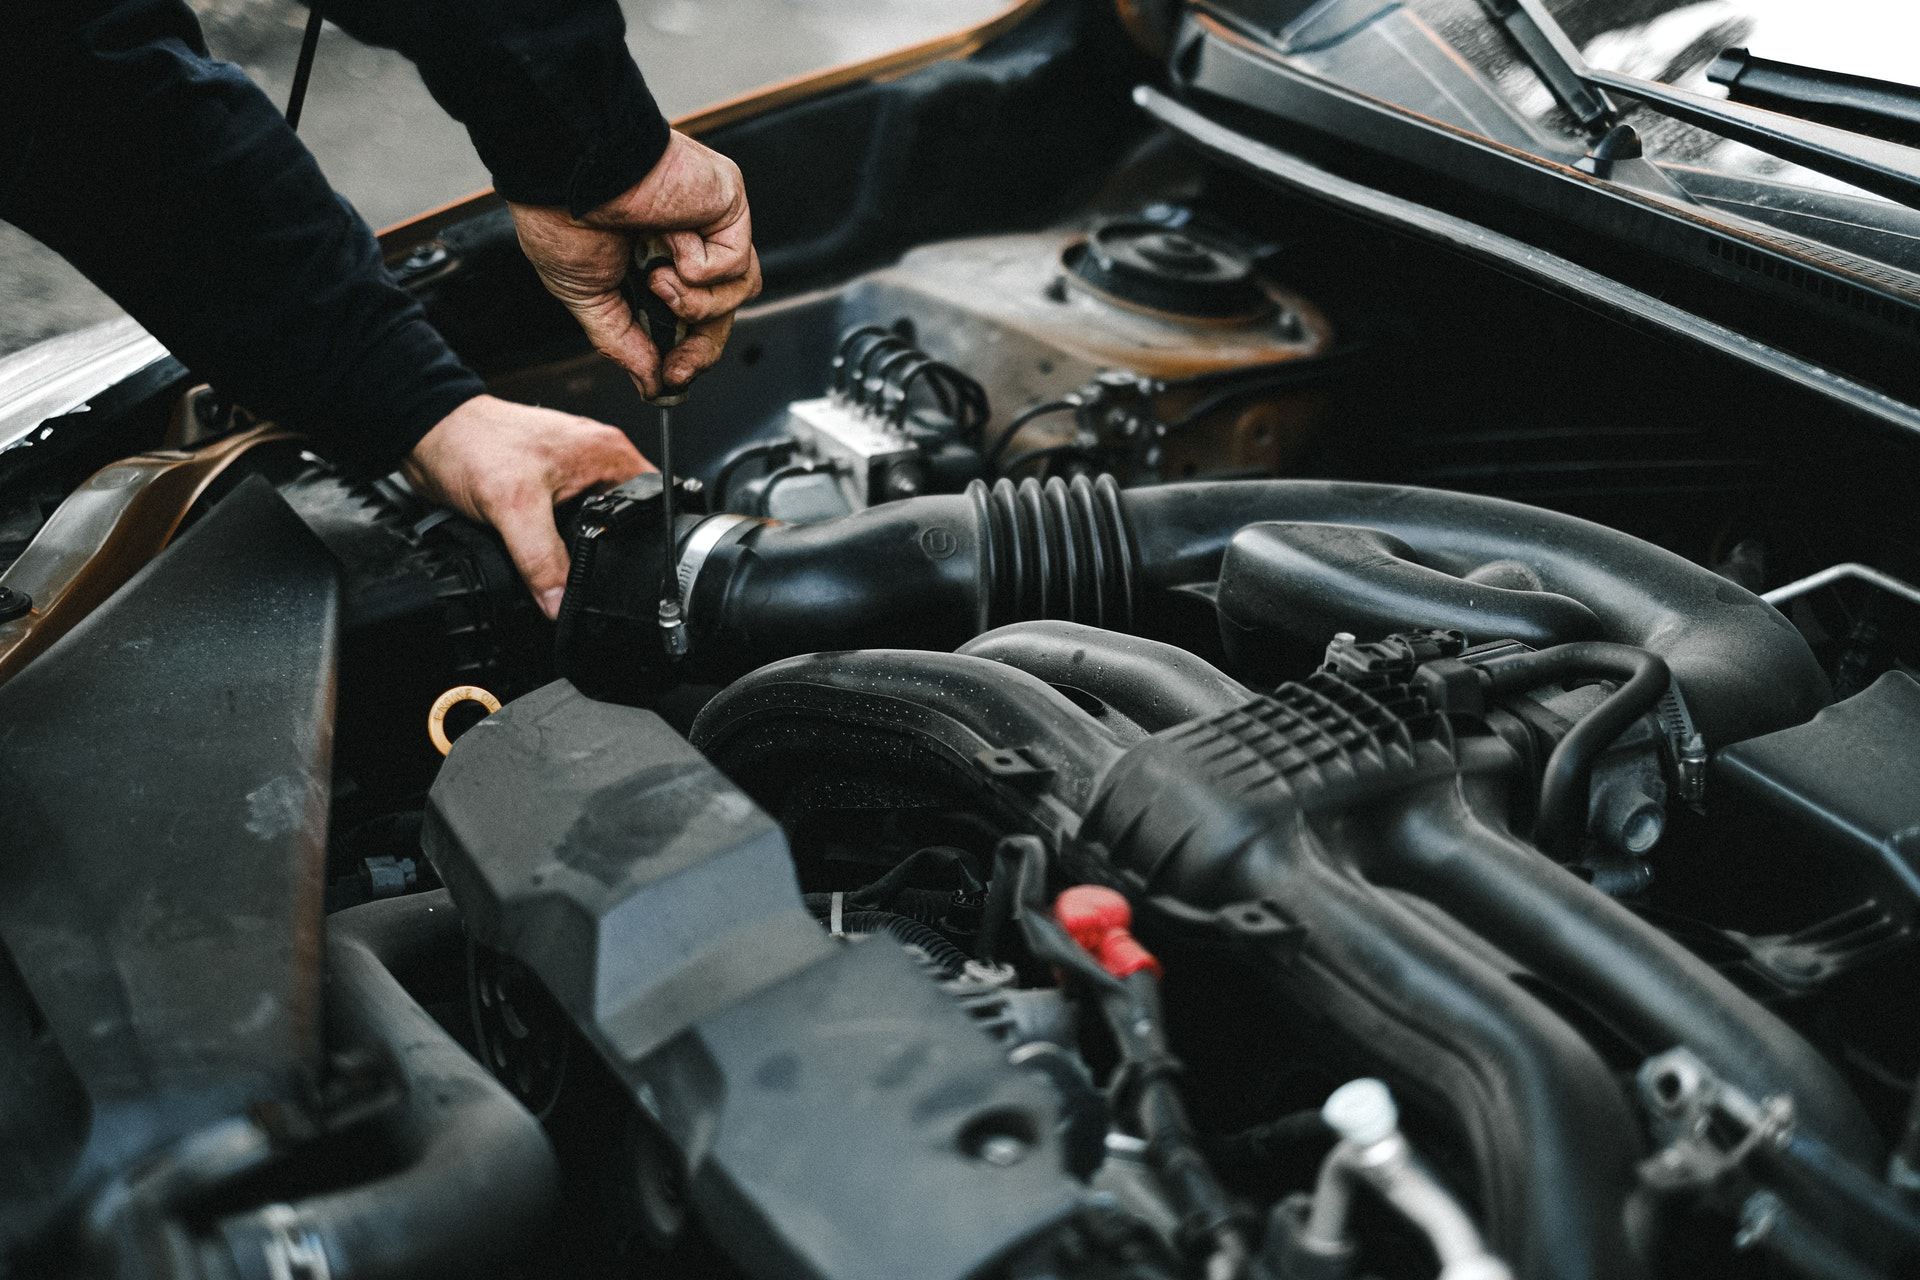
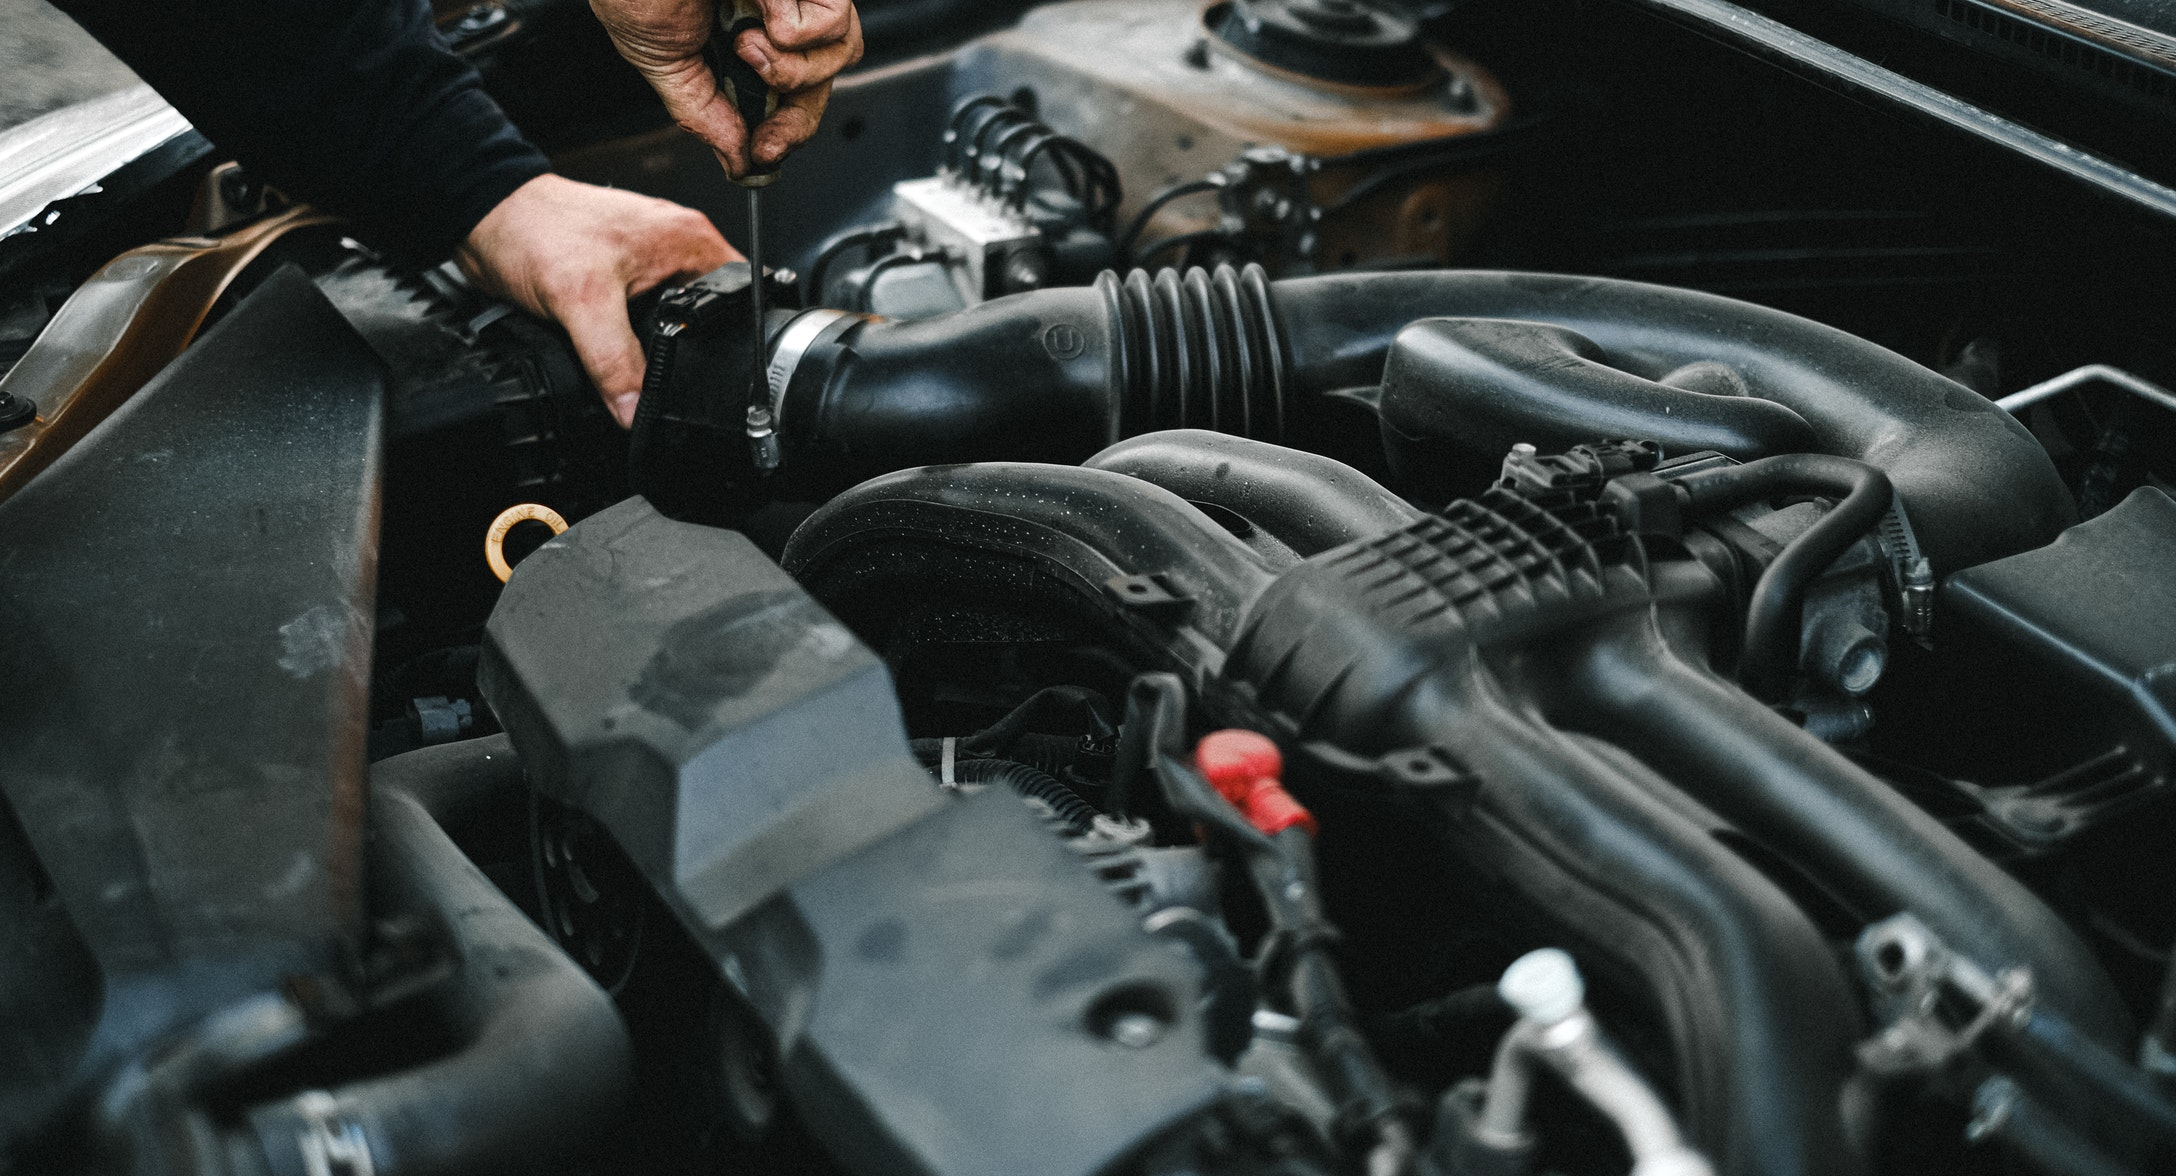
code:add correct sized hero image

diff --git a/assets/css/style.css b/assets/css/style.css
@@ -33,6 +33,7 @@ body {
     font-size: 18px;
 }
 
+
 .navbar>a:hover{
     color: black;
     background-color: white;
@@ -50,7 +51,7 @@ body {
     background-repeat: no-repeat;
     background-image: url('/assets/images/hero-image.jpg');
     background-color: #000;
-    background-position: center;
+    background-position: top center;
     /* Center the image */
     background-size: cover;
     display: flex;

diff --git a/README.md b/README.md
@@ -65,7 +65,7 @@ Images not in correct aspect ratio. (removed placeholder images and downloaded t
 
 
 ## Credits
-hero: Photo by Anna Shvets from Pexels
+hero: (https://www.pexels.com/photo/an-auto-mechanic-checking-the-engine-of-a-car-4315570/)
 parralax: Photo by jae park from Pexels
 --
 card1: Photo by Mike from Pexels(https://www.pexels.com/photo/white-land-rover-range-rover-suv-on-road-116675/)
